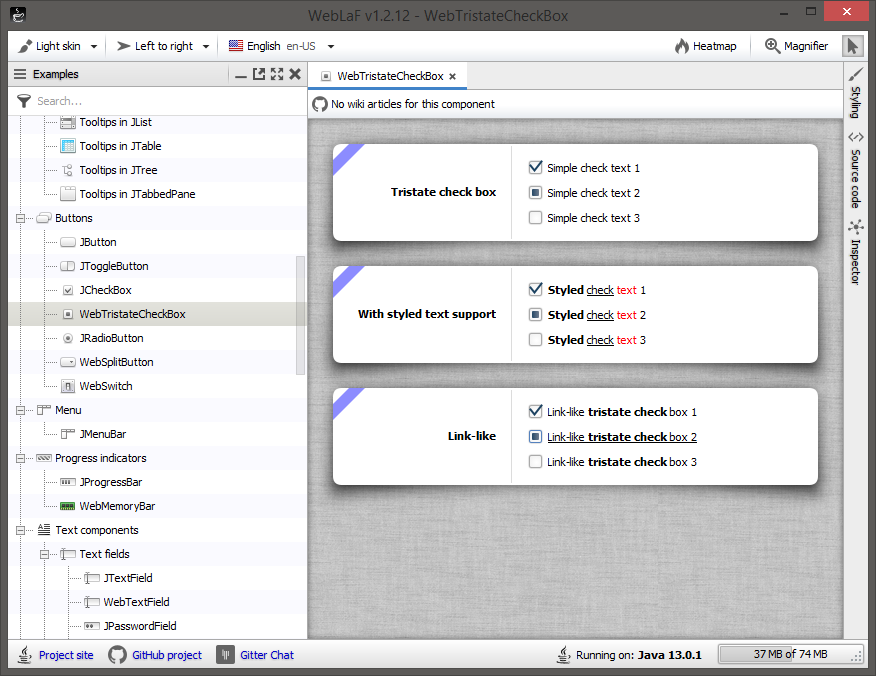
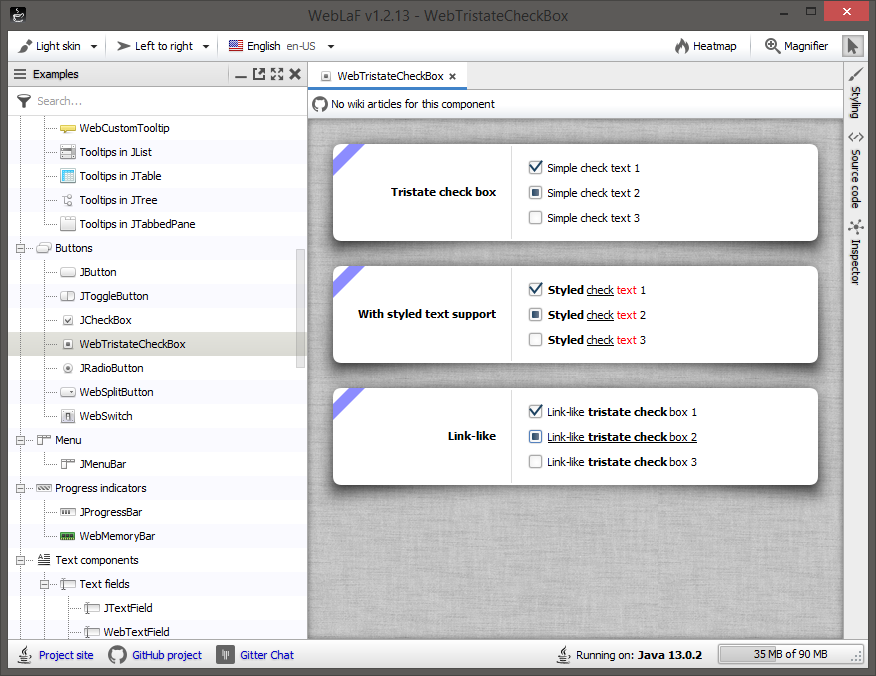
- README.md - Updated for latest release

Changed region(s): [[0.0, 0.1553, 0.3699, 0.963], [0.863, 0.963, 0.9247, 0.9941]]

diff --git a/README.md b/README.md
@@ -11,11 +11,11 @@ About
 
 To look at some features provided by WebLaF I recommend checking out the demo -
 
-[![DemoApplication](./screenshots/demo.png)](https://github.com/mgarin/weblaf/releases/download/v1.2.12/weblaf-demo-1.2.12-jar-with-dependencies.jar)
+[![DemoApplication](./screenshots/demo.png)](https://github.com/mgarin/weblaf/releases/download/v1.2.13/weblaf-demo-1.2.13-jar-with-dependencies.jar)
 
-[![DemoApplication](./screenshots/demo-dark.png)](https://github.com/mgarin/weblaf/releases/download/v1.2.12/weblaf-demo-1.2.12-jar-with-dependencies.jar)
+[![DemoApplication](./screenshots/demo-dark.png)](https://github.com/mgarin/weblaf/releases/download/v1.2.13/weblaf-demo-1.2.13-jar-with-dependencies.jar)
 
-It is an [executable JAR](https://github.com/mgarin/weblaf/releases/download/v1.2.12/weblaf-demo-1.2.12-jar-with-dependencies.jar) which you can run if you have JRE 6 or higher installed.
+It is an [executable JAR](https://github.com/mgarin/weblaf/releases/download/v1.2.13/weblaf-demo-1.2.13-jar-with-dependencies.jar) which you can run if you have JRE 6 or higher installed.
 
 **Features**
 
@@ -49,7 +49,7 @@ If you are working with a Maven project you can simply add dependency for `webla
 <dependency>
   <groupId>com.weblookandfeel</groupId>
   <artifactId>weblaf-ui</artifactId>
-  <version>1.2.12</version>
+  <version>1.2.13</version>
 </dependency>
 ```
 You can also use `RELEASE` or `LATEST` version instead of specific one.
